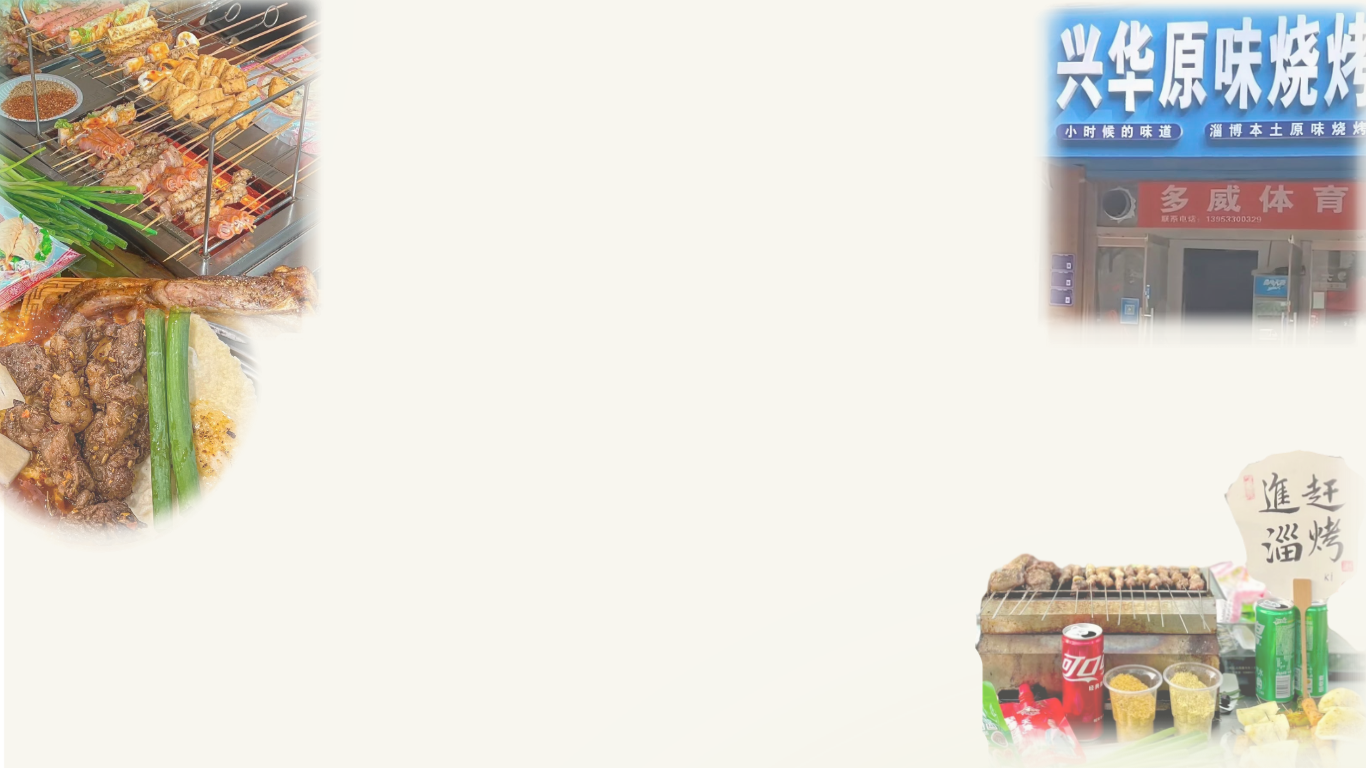
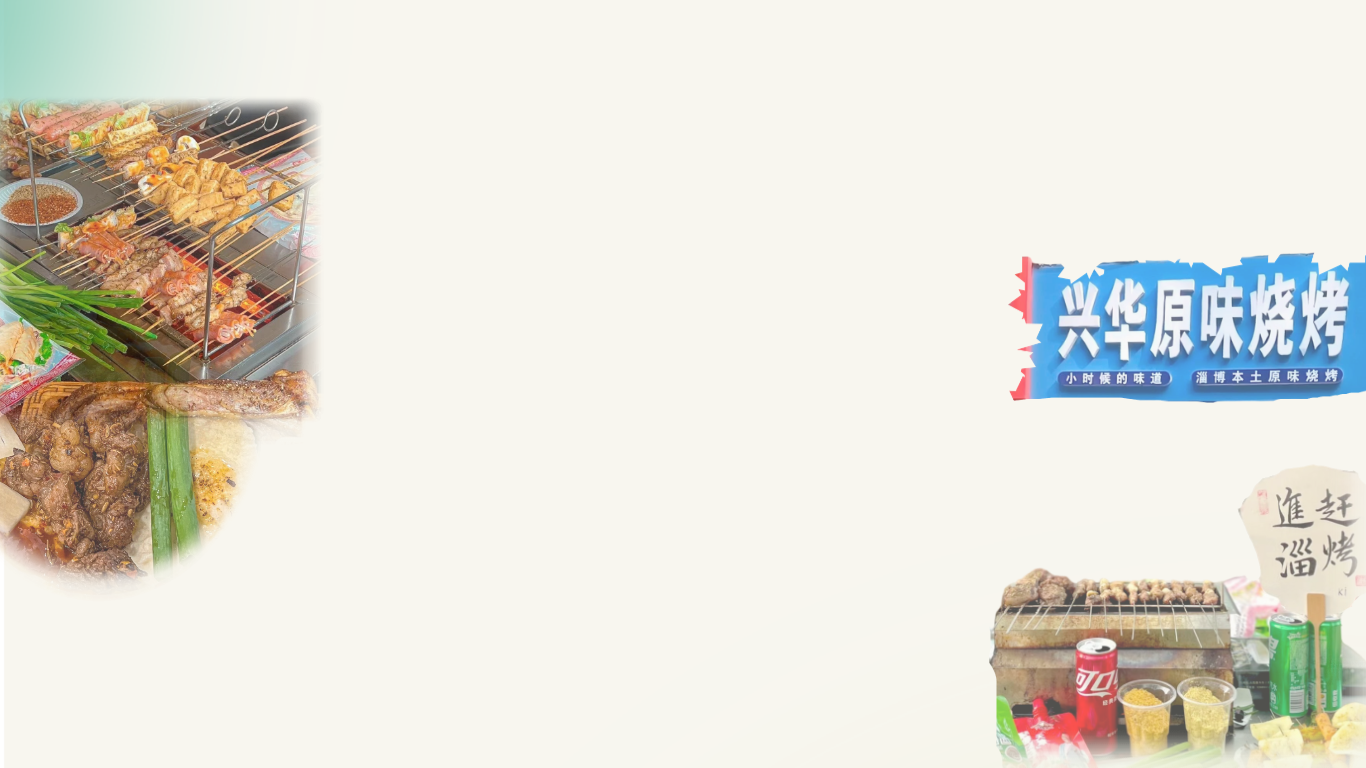
change

diff --git a/part-2.html b/part-2.html
@@ -518,7 +518,7 @@
     </section>
 
 
-    <section style="background: url(./assets/images/背景图.png) no-repeat;background-size: 50%; background-position: 50% 50%;">
+    <section style="background: url(./assets/images/背景图.png) no-repeat;background-size: 100%; background-position: 50% 50%;">
         <section class="container pt-20">
             <div class=" ">
                 <!-- <div class="page-header__bg" style="background-color: #ffebcd;; background-image: linear-gradient(to top, rgba(0, 0, 0, 0.1), rgba(0, 0, 0, 0.1)), url(assets/images/淄博潮起潮落中的“贝壳”_封面.png); background-repeat: no-repeat;background-position: center;"></div> -->
